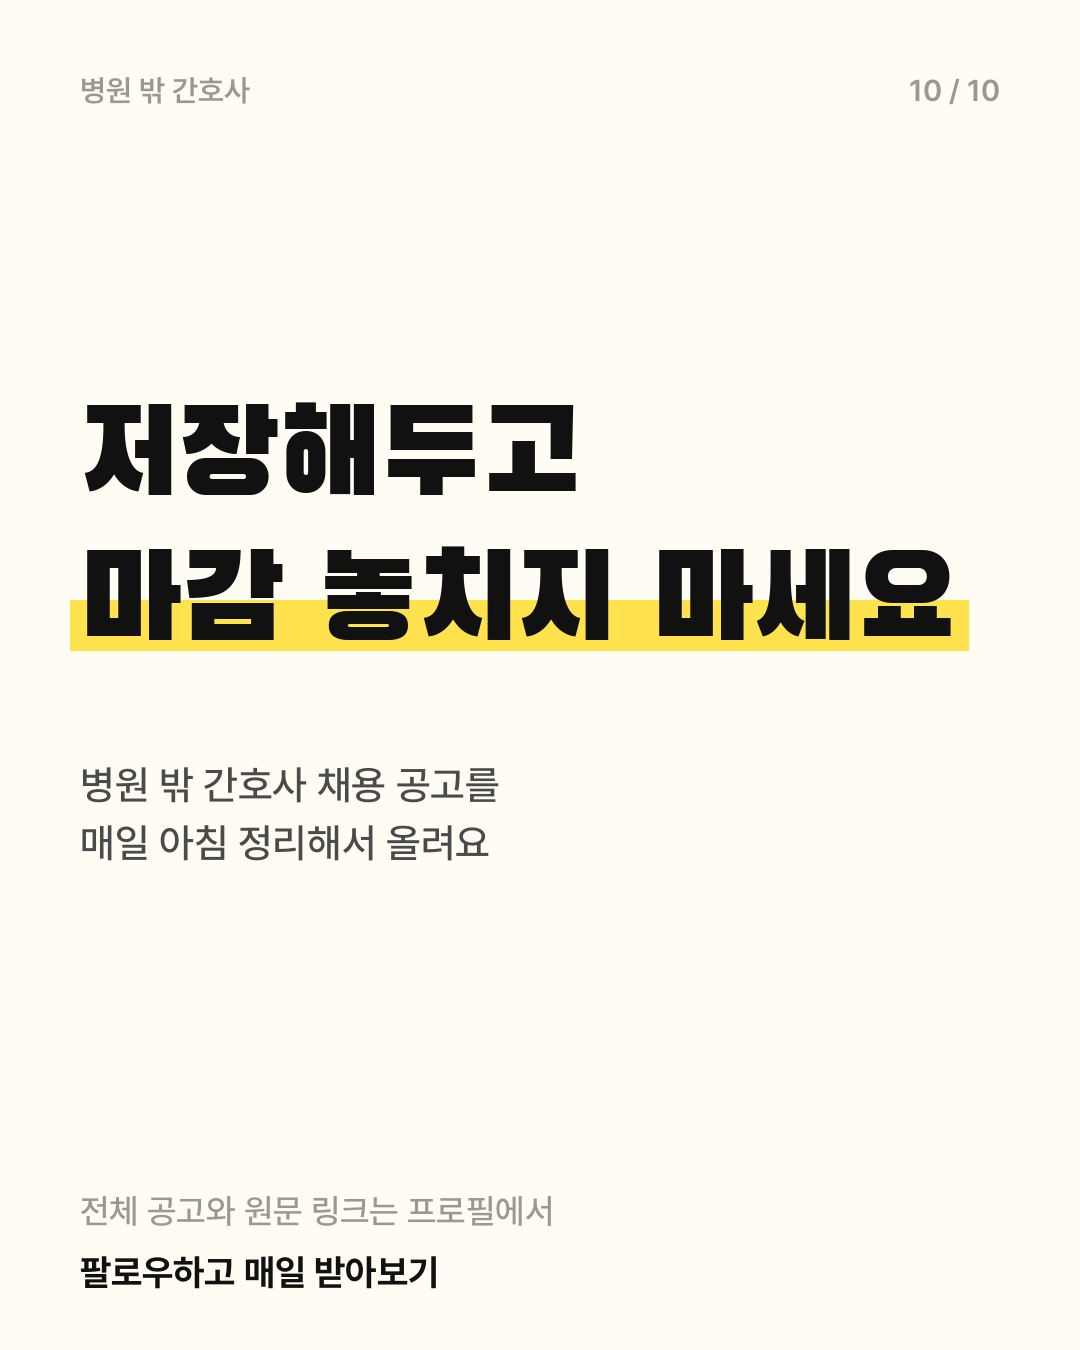
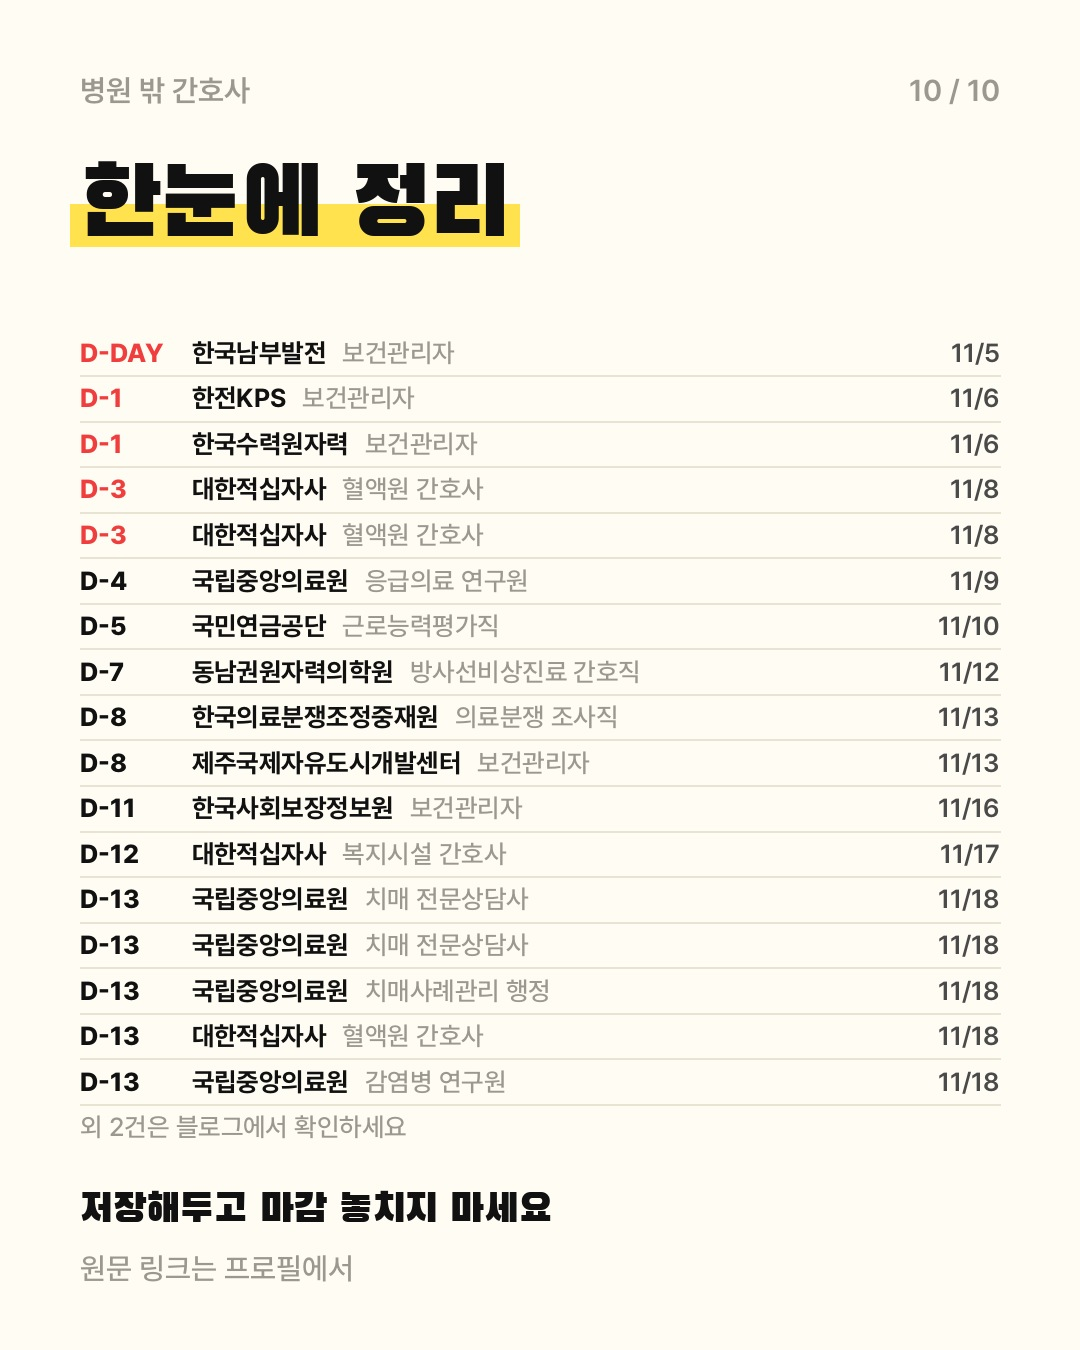
마지막 장을 전체 공고 한눈에 정리표로 변경
Claude-Session: https://claude.ai/code/session_015ozFBvjxcWAyqLYfTbBGCZ

Changed region(s): [[0.0611, 0.2489, 0.9167, 0.84], [0.0611, 0.8711, 0.5194, 0.9644], [0.0611, 0.1244, 0.4889, 0.1867]]

diff --git a/docs/2026-11-05/index.html b/docs/2026-11-05/index.html
@@ -198,7 +198,7 @@ a{color:var(--accent)}ul.days{padding-left:1.2em}
 <p><b>자격요건</b><br>· 분야별 공고문 참고</p>
 <p>👉 <a href="https://cbnuh.recruiter.co.kr/app/jobnotice/view?systemKindCode=MRS2&amp;jobnoticeSn=271173">공고 원문 보기</a></p><p>&nbsp;</p>
 <p>※ 공고 내용은 요약본이며, 지원 전 반드시 원문을 확인해주세요.</p>
-<p>#간호직 #간호학 #복지시설 #전문상담사 #무기계약직 #치매상담 #탈임상 #탈임상간호사 #산업간호사 #출연연구기관 #국립중앙의료원 #주말근무 #의료분쟁조정중재원 #공공기관 #충주 #간호사채용 #기간제 #국민연금공단 #초단시간 #조사직 #한국남부발전 #한국수력원자력 #보건관리자 #연구원 #근로능력평가</p></div></div>
+<p>#계약직 #무기계약직 #근로능력평가 #간호직 #임상시험센터 #충북대학교병원 #JDC #한전KPS #대한적십자사 #초단시간 #간호사이직 #정규직 #혈액원 #출연연구기관 #보건관리자 #주말근무 #국립중앙의료원 #방사선비상진료 #복지시설 #전문상담사 #탈임상 #산업간호사 #한국사회보장정보원 #감염병 #연구원</p></div></div>
 
 <div class="box"><div class="row"><b>③ 인스타 카드뉴스</b><span class="muted">이미지를 눌러 저장</span></div>
 <div class="cards"><a href="card-00.jpg" download><img src="card-00.jpg" alt="카드 0"></a><a href="card-01.jpg" download><img src="card-01.jpg" alt="카드 1"></a><a href="card-02.jpg" download><img src="card-02.jpg" alt="카드 2"></a><a href="card-03.jpg" download><img src="card-03.jpg" alt="카드 3"></a><a href="card-04.jpg" download><img src="card-04.jpg" alt="카드 4"></a><a href="card-05.jpg" download><img src="card-05.jpg" alt="카드 5"></a><a href="card-06.jpg" download><img src="card-06.jpg" alt="카드 6"></a><a href="card-07.jpg" download><img src="card-07.jpg" alt="카드 7"></a><a href="card-08.jpg" download><img src="card-08.jpg" alt="카드 8"></a><a href="card-09.jpg" download><img src="card-09.jpg" alt="카드 9"></a></div></div>

diff --git a/docs/2026-11-06/index.html b/docs/2026-11-06/index.html
@@ -62,7 +62,7 @@ a{color:var(--accent)}ul.days{padding-left:1.2em}
 <p><b>자격요건</b><br>· 간호사 면허<br>· 3교대·지방근무 가능<br>· 응급실 1년 이상·KTAS 이수 우대</p>
 <p>👉 <a href="https://nmc.recruiter.co.kr/app/jobnotice/view?systemKindCode=MRS2&amp;jobnoticeSn=271548">공고 원문 보기</a></p><p>&nbsp;</p>
 <p>※ 공고 내용은 요약본이며, 지원 전 반드시 원문을 확인해주세요.</p>
-<p>#탈임상간호사 #계약직 #간호사채용 #간호사이직 #응급의료상황실 #탈임상 #재난의료 #간호직 #무기계약직 #국립중앙의료원 #정규직 #공공기관 #QI</p></div></div>
+<p>#공공기관 #재난의료 #국립중앙의료원 #간호사채용 #계약직 #탈임상 #탈임상간호사 #무기계약직 #간호사이직 #QI #정규직 #응급의료상황실 #간호직</p></div></div>
 
 <div class="box"><div class="row"><b>③ 인스타 카드뉴스</b><span class="muted">이미지를 눌러 저장</span></div>
 <div class="cards"><a href="card-00.jpg" download><img src="card-00.jpg" alt="카드 0"></a><a href="card-01.jpg" download><img src="card-01.jpg" alt="카드 1"></a><a href="card-02.jpg" download><img src="card-02.jpg" alt="카드 2"></a><a href="card-03.jpg" download><img src="card-03.jpg" alt="카드 3"></a><a href="card-04.jpg" download><img src="card-04.jpg" alt="카드 4"></a><a href="card-05.jpg" download><img src="card-05.jpg" alt="카드 5"></a></div></div>

diff --git a/src/render.py b/src/render.py
@@ -1,6 +1,6 @@
 """인스타그램 카드뉴스 이미지 생성 (1080x1350, 4:5 비율).
 
-카드 구성: 표지 1장 + 공고 카드 최대 8장 + 마무리 1장 (인스타 캐러셀 최대 10장)
+카드 구성: 표지 1장 + 공고 카드 최대 8장 + 전체 정리 1장 (인스타 캐러셀 최대 10장)
 폰트: fonts/ 폴더의 Pretendard (SIL OFL 1.1)
 """
 from __future__ import annotations
@@ -205,17 +205,49 @@ def job_card(job: Job, today: date, idx: int, total: int) -> Image.Image:
     return img
 
 
-def outro(total: int) -> Image.Image:
+def summary(jobs: list[Job], today: date, total: int) -> Image.Image:
+    """마지막 장: 전체 공고 한눈에 정리 (마감 빠른 순)."""
     img = Image.new("RGB", (W, H), BG)
     d = ImageDraw.Draw(img)
     _header(d, BRAND, f"{total} / {total}")
-    t = font(120, "Title")
-    d.text((PAD, 400), "저장해두고", font=t, fill=INK)
-    _marked(d, PAD, 545, "마감 놓치지 마세요", t)
-    d.text((PAD, 760), "병원 밖 간호사 채용 공고를", font=font(40, "Medium"), fill=SUB)
-    d.text((PAD, 818), "매일 아침 정리해서 올려요", font=font(40, "Medium"), fill=SUB)
-    d.text((PAD, H - 160), "전체 공고와 원문 링크는 프로필에서", font=font(34, "Medium"), fill=MUTED)
-    d.text((PAD, H - 100), f"@{HANDLE} 팔로우" if HANDLE else "팔로우하고 매일 받아보기", font=font(36, "Bold"), fill=INK)
+    _marked(d, PAD, 160, "한눈에 정리", font(96, "Title"))
+
+    rows = sorted(jobs, key=lambda j: j.deadline or "9999")
+    top, bottom = 330, H - 200
+    max_rows = 18
+    extra = 0
+    if len(rows) > max_rows:
+        extra = len(rows) - (max_rows - 1)
+        rows = rows[: max_rows - 1]
+    n = len(rows) + (1 if extra else 0)
+    row_h = min(92, (bottom - top) / max(n, 1))
+    fs = max(26, min(36, int(row_h * 0.46)))
+    f_d, f_org, f_role, f_date = font(fs, "ExtraBold"), font(fs, "Bold"), font(fs, "Medium"), font(fs, "SemiBold")
+    d_w = d.textlength("D-DAY", font=f_d) + 28
+    date_w = d.textlength("12/31", font=f_date)
+
+    y = top
+    for j in rows:
+        label, dl = d_label(j.deadline, today)
+        cy = y + row_h / 2
+        d.text((PAD, cy), label if dl else "상시", font=f_d, fill=RED if _is_urgent(label) else INK, anchor="lm")
+        org = j.org.replace("(주)", "").strip()
+        x = PAD + d_w
+        room = W - PAD - date_w - 30 - x
+        org_txt = wrap(d, org, f_org, room * 0.62, 1)[0]
+        d.text((x, cy), org_txt, font=f_org, fill=INK, anchor="lm")
+        x2 = x + d.textlength(org_txt, font=f_org) + 16
+        if j.job_role and room - (x2 - x) > 60:
+            d.text((x2, cy), wrap(d, j.job_role, f_role, room - (x2 - x), 1)[0], font=f_role, fill=MUTED, anchor="lm")
+        if dl:
+            d.text((W - PAD, cy), f"{dl.month}/{dl.day}", font=f_date, fill=SUB, anchor="rm")
+        y += row_h
+        d.line([(PAD, y), (W - PAD, y)], fill=LINE, width=2)
+    if extra:
+        d.text((PAD, y + row_h / 2), f"외 {extra}건은 블로그에서 확인하세요", font=f_role, fill=MUTED, anchor="lm")
+
+    d.text((PAD, H - 140), "저장해두고 마감 놓치지 마세요", font=font(40, "Title"), fill=INK, anchor="lm")
+    d.text((PAD, H - 82), "원문 링크는 프로필에서" + (f"  ·  @{HANDLE}" if HANDLE else ""), font=font(30, "Medium"), fill=MUTED, anchor="lm")
     return img
 
 
@@ -234,7 +266,7 @@ def render_all(jobs: list[Job], today: date, out_dir: Path, limit: int = 8) -> l
     total = len(picked) + 2
     images = [cover(jobs, today, total)]
     images += [job_card(j, today, i, total) for i, j in enumerate(picked, start=2)]
-    images.append(outro(total))
+    images.append(summary(jobs, today, total))
     paths = []
     for i, im in enumerate(images):
         p = out_dir / f"card-{i:02d}.jpg"
